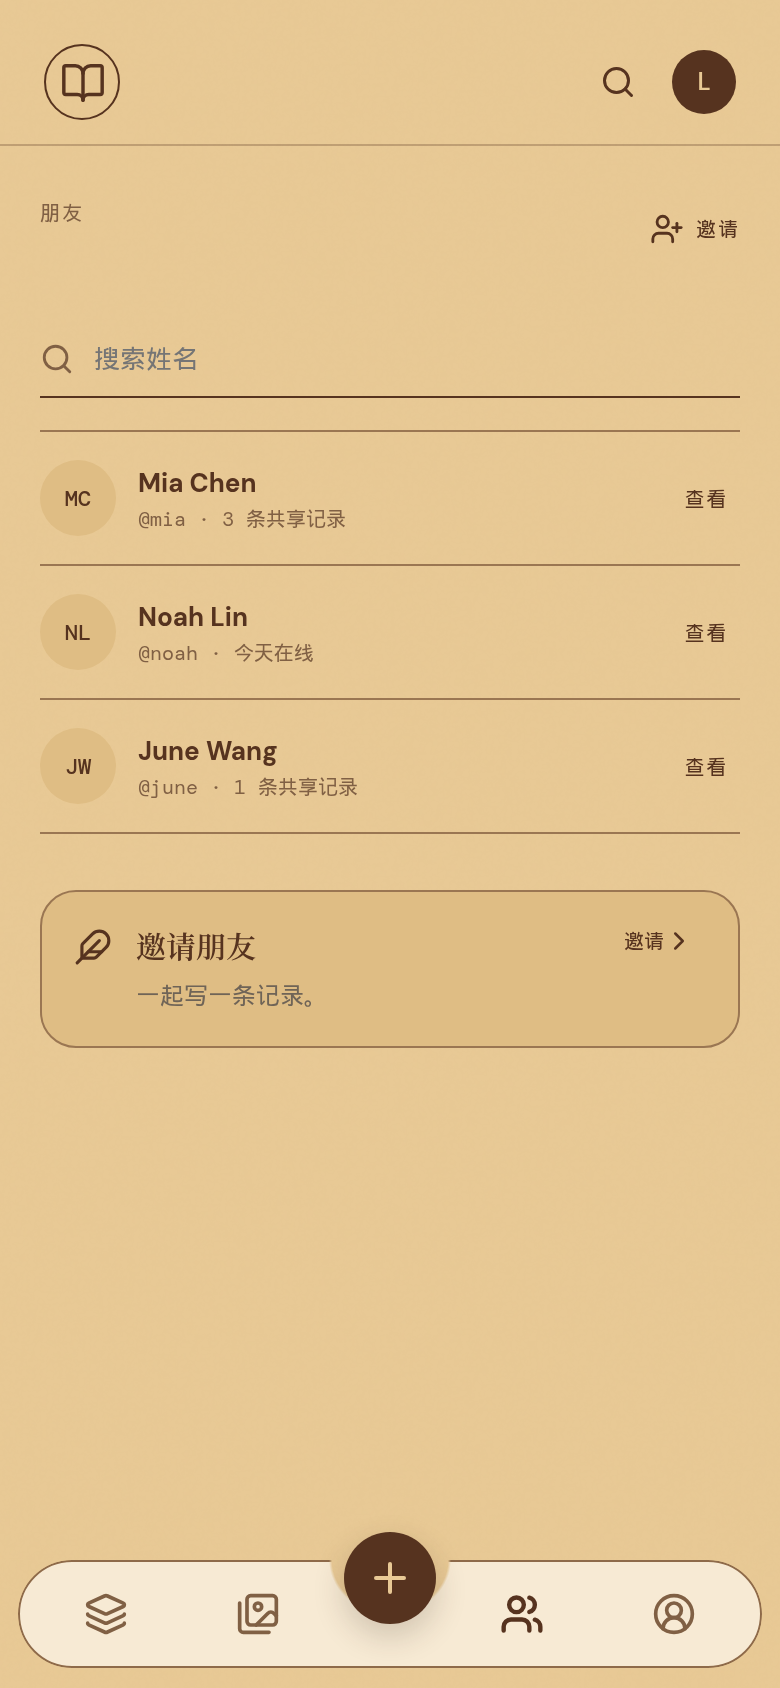
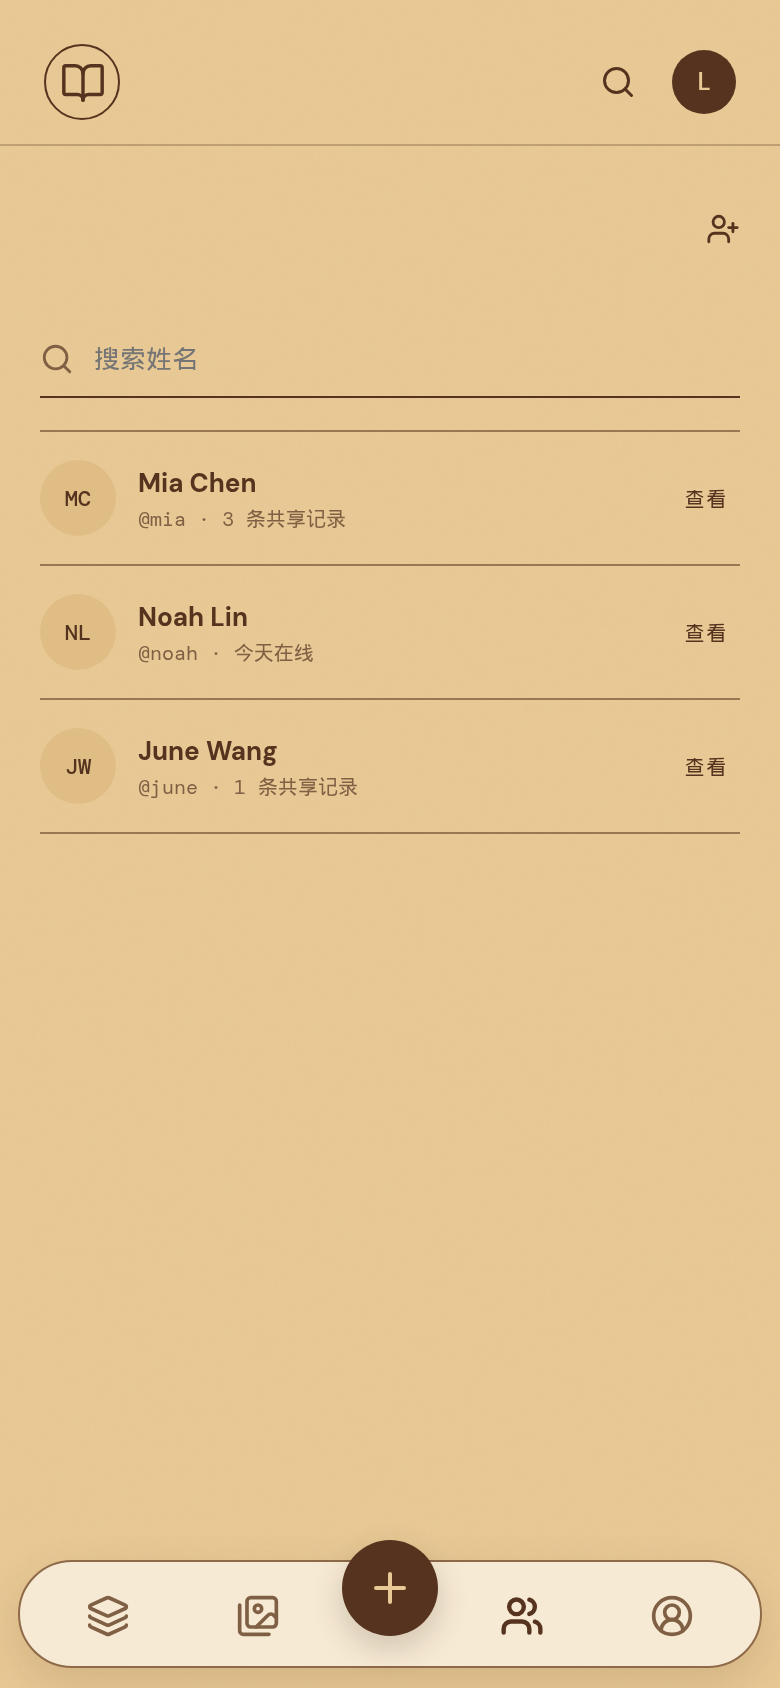
fix: strip decorative chrome titles across the app
Remove sheet and section marketing copy so chrome stays nearly text-free. Keep form placeholders, date, visibility controls, and the 上架 action. Reshoot affected screens with the solid oval bottom nav.

diff --git a/app/page.tsx b/app/page.tsx
@@ -9,7 +9,6 @@ import {
   Check,
   ChevronRight,
   CircleUserRound,
-  Feather,
   Images,
   Layers,
   LogOut,
@@ -130,7 +129,7 @@ function ShelfItem({ item, stories, onOpen }: { item: ShelfObject; stories: Stor
 
 function TimelineView({ stories, onOpen, onBack }: { stories: Story[]; onOpen: (story: Story) => void; onBack: () => void }) {
   const orderedStories = [...stories].sort((a, b) => b.date.localeCompare(a.date));
-  return <section className="view timeline-view"><div className="view-heading"><div><p className="eyebrow">2024</p></div><button className="icon-button" onClick={onBack} aria-label="返回"><ArrowLeft size={18}/></button></div><div className="timeline">{orderedStories.map((story, index) => <div className="timeline-row" key={story.id}><div className="date-rail"><strong>{story.date.split(" / ").slice(1).join("/")}</strong><span>{story.day}</span>{index !== orderedStories.length - 1 && <i/>}</div><button className={`story-card ${story.tone}`} onClick={() => onOpen(story)}><div className="card-copy"><span className="card-kicker">{story.public ? "公开" : "私藏"}</span><h2>{story.title}</h2><p>{story.excerpt}</p><span className="read-link">打开 <ChevronRight size={15}/></span></div>{story.storyImages[0] ? <img src={story.storyImages[0]} alt=""/> : <span aria-hidden="true"/>}</button></div>)}</div></section>;
+  return <section className="view timeline-view"><div className="view-heading"><div><p className="eyebrow">2024</p></div><button className="icon-button" onClick={onBack} aria-label="返回"><ArrowLeft size={18}/></button></div><div className="timeline">{orderedStories.map((story, index) => <div className="timeline-row" key={story.id}><div className="date-rail"><strong>{story.date.split(" / ").slice(1).join("/")}</strong><span>{story.day}</span>{index !== orderedStories.length - 1 && <i/>}</div><button className={`story-card ${story.tone}`} onClick={() => onOpen(story)}><div className="card-copy"><span className="card-kicker">{story.public ? "公开" : "私藏"}</span><h2>{story.title}</h2><p>{story.excerpt}</p></div>{story.storyImages[0] ? <img src={story.storyImages[0]} alt=""/> : <span aria-hidden="true"/>}</button></div>)}</div></section>;
 }
 
 function GalleryView({ stories, onOpen, commentStory, setCommentStory, notify }: { stories: Story[]; onOpen: (story: Story, objectImage?: string) => void; commentStory: number | null; setCommentStory: (id: number | null) => void; notify: (message: string) => void }) {
@@ -139,9 +138,55 @@ function GalleryView({ stories, onOpen, commentStory, setCommentStory, notify }:
   return <section className="view gallery-view" aria-label="相册"><div className="masonry">{columns.map((items, columnIndex) => <div className="masonry-column" key={columnIndex}>{items.map((story) => { const index = gallery.indexOf(story); const image = story.storyImages[0]; return <article className={`gallery-card ${index % 2 ? "offset" : ""}`} key={story.id}><button className="image-button" onClick={() => onOpen(story)}><img src={image} alt={story.title} style={{ aspectRatio: index % 2 ? "3 / 4" : "4 / 5", objectFit: "cover" }}/></button><div className="gallery-meta"><p className="card-kicker">{story.date} · {story.people.join(" + ")}</p><h2>{story.title}</h2><p>{story.excerpt}</p><div className="comment-row"><button onClick={() => notify("已标记")} aria-label="标记"><span aria-hidden="true">♡</span> 12</button><button onClick={() => setCommentStory(commentStory === story.id ? null : story.id)}><MessageCircle size={15}/> {commentStory === story.id ? "收起" : "3"}</button></div>{commentStory === story.id && <div className="comments"><p><b>Mia</b> 我也记得。</p><p><b>Noah</b> 那晚很特别。</p><div className="comment-input"><input placeholder="写回应"/><button aria-label="发送" onClick={() => notify("已发送")}><Send size={14}/></button></div></div>}</div></article>; })}</div>)}</div></section>;
 }
 
-function FriendsView({ notify }: { notify: (message: string) => void }) { const [query, setQuery] = useState(""); const people = [{ name: "Mia Chen", handle: "@mia", status: "3 条共享记录", initials: "MC" }, { name: "Noah Lin", handle: "@noah", status: "今天在线", initials: "NL" }, { name: "June Wang", handle: "@june", status: "1 条共享记录", initials: "JW" }]; return <section className="view friends-view"><div className="view-heading"><div><p className="eyebrow">朋友</p></div><button className="add-friend" onClick={() => notify("邀请链接已复制")}><UserPlus size={17}/> 邀请</button></div><div className="search-field"><Search size={17}/><input value={query} onChange={e => setQuery(e.target.value)} placeholder="搜索姓名"/></div><div className="friend-list">{people.filter(p => `${p.name} ${p.handle}`.toLowerCase().includes(query.toLowerCase())).map(person => <div className="friend-row" key={person.handle}><span className="person-avatar">{person.initials}</span><div><strong>{person.name}</strong><small>{person.handle} · {person.status}</small></div><button className="quiet-button" onClick={() => notify(`已打开 ${person.name} 的记录`)}>查看</button></div>)}</div><div className="invite-card"><Feather size={19}/><div><b>邀请朋友</b><p>一起写一条记录。</p></div><button onClick={() => notify("邀请链接已复制")}>邀请 <ChevronRight size={15}/></button></div></section>; }
+function FriendsView({ notify }: { notify: (message: string) => void }) {
+  const [query, setQuery] = useState("");
+  const people = [
+    { name: "Mia Chen", handle: "@mia", status: "3 条共享记录", initials: "MC" },
+    { name: "Noah Lin", handle: "@noah", status: "今天在线", initials: "NL" },
+    { name: "June Wang", handle: "@june", status: "1 条共享记录", initials: "JW" },
+  ];
+  return (
+    <section className="view friends-view" aria-label="朋友">
+      <div className="view-heading view-heading-end">
+        <button className="add-friend" onClick={() => notify("邀请链接已复制")} aria-label="邀请"><UserPlus size={17} /></button>
+      </div>
+      <div className="search-field"><Search size={17} /><input value={query} onChange={(e) => setQuery(e.target.value)} placeholder="搜索姓名" aria-label="搜索姓名" /></div>
+      <div className="friend-list">
+        {people.filter((p) => `${p.name} ${p.handle}`.toLowerCase().includes(query.toLowerCase())).map((person) => (
+          <div className="friend-row" key={person.handle}>
+            <span className="person-avatar">{person.initials}</span>
+            <div><strong>{person.name}</strong><small>{person.handle} · {person.status}</small></div>
+            <button className="quiet-button" onClick={() => notify(`已打开 ${person.name} 的记录`)}>查看</button>
+          </div>
+        ))}
+      </div>
+    </section>
+  );
+}
 
-function MeView({ notify }: { notify: (message: string) => void }) { return <section className="view me-view"><div className="view-heading"><div><p className="eyebrow">我的</p></div><button className="icon-button" onClick={() => notify("设置功能即将开放")} aria-label="设置"><Settings size={19}/></button></div><div className="profile-card"><span className="profile-avatar">L</span><div><h2>Laura Hanjing</h2><p>@laura · 2024</p></div><button className="quiet-button" onClick={() => notify("资料编辑功能即将开放")}>编辑</button></div><div className="stats"><div><strong>03</strong><span>记录</span></div><div><strong>02</strong><span>公开</span></div><div><strong>04</strong><span>朋友</span></div></div><div className="settings-list"><button onClick={() => notify("邮箱已验证")}><Mail size={18}/><span>邮箱<small>laura@example.com · 已验证</small></span><Check size={17}/></button><button onClick={() => signOut({ callbackUrl: "/login" })}><LogOut size={18}/><span>退出<small>退出账号</small></span><ChevronRight size={17}/></button></div></section>; }
+function MeView({ notify }: { notify: (message: string) => void }) {
+  return (
+    <section className="view me-view" aria-label="个人资料">
+      <div className="view-heading view-heading-end">
+        <button className="icon-button" onClick={() => notify("设置功能即将开放")} aria-label="设置"><Settings size={19} /></button>
+      </div>
+      <div className="profile-card">
+        <span className="profile-avatar">L</span>
+        <div><h2>Laura Hanjing</h2><p>@laura · 2024</p></div>
+        <button className="quiet-button" onClick={() => notify("资料编辑功能即将开放")}>编辑</button>
+      </div>
+      <div className="stats">
+        <div><strong>03</strong><span>记录</span></div>
+        <div><strong>02</strong><span>公开</span></div>
+        <div><strong>04</strong><span>朋友</span></div>
+      </div>
+      <div className="settings-list">
+        <button onClick={() => notify("邮箱已验证")}><Mail size={18} /><span>laura@example.com</span><Check size={17} /></button>
+        <button onClick={() => signOut({ callbackUrl: "/login" })}><LogOut size={18} /><span>退出</span><ChevronRight size={17} /></button>
+      </div>
+    </section>
+  );
+}
 
 async function cropToPng(file: File): Promise<Blob> {
   const image = await createImageBitmap(file);
@@ -250,5 +295,46 @@ function AddStory({ onClose, onAdd, notify }: { onClose: () => void; onAdd: (ite
     notify(cutoutStatus === "ready" ? "透明物品已上架" : "已用居中裁切上架");
   };
 
-  return <div className="modal-backdrop" onClick={onClose}><section className="add-sheet" onClick={e => e.stopPropagation()}><div className="sheet-head"><p className="eyebrow">新增物品</p><button className="icon-button" onClick={onClose} aria-label="关闭"><X size={20}/></button></div><form onSubmit={submit}><label>发现 / 发明日期<input type="date" value={date} onChange={(event) => setDate(event.target.value)} required/></label><label>短标题<input value={title} onChange={(event) => setTitle(event.target.value)} placeholder="给它一个名字" required/></label><label>趣事正文<textarea value={content} onChange={(event) => setContent(event.target.value)} placeholder="写下当时发生了什么…" rows={4} required/></label><label>参与好友<input value={people} onChange={(event) => setPeople(event.target.value)} placeholder="用逗号分开，可不填"/></label><label>物品照片<span className="upload-box"><Camera size={19}/> 拍照或从相册选图 <small>自动扣图</small><input type="file" accept="image/*" capture="environment" onChange={(event) => { const file = event.target.files?.[0]; if (file) void processImage(file); }} required/></span></label>{imageUrl && <div className="cutout-preview"><img src={imageUrl} alt="待上架物品预览"/><span className={`cutout-status ${cutoutStatus}`}>{cutoutStatus === "processing" ? "正在扣图…" : cutoutStatus === "ready" ? "透明 PNG 已生成" : cutoutStatus === "fallback" ? "自动扣图未完成，已用居中裁切" : "等待处理"}</span></div>}<label>趣事现场照片 <span className="upload-box"><Camera size={19}/> 可另选或拍摄，可多张<input type="file" accept="image/*" capture="environment" multiple onChange={(event) => chooseStoryImages(event.target.files)}/></span></label>{storyImages.length > 0 && <div className="story-image-preview" aria-label={`已选 ${storyImages.length} 张现场照片`}>{storyImages.map((image, index) => <img key={`${image}-${index}`} src={image} alt={`现场照片 ${index + 1}`}/>)}</div>}{error && <p className="form-error" role="alert">{error}</p>}<div className="visibility"><span>可见范围</span><div><button type="button" className={visibility === "PRIVATE" ? "selected" : ""} onClick={() => setVisibility("PRIVATE")}>私藏<small>仅自己和参与者</small></button><button type="button" className={visibility === "PUBLIC" ? "selected" : ""} onClick={() => setVisibility("PUBLIC")}>公开<small>显示在相册</small></button></div></div><button className="primary-button" type="submit" disabled={cutoutStatus === "processing"}>上架 <Check size={17}/></button></form></section></div>;
+  return (
+    <div className="modal-backdrop" onClick={onClose}>
+      <section className="add-sheet" onClick={(e) => e.stopPropagation()}>
+        <div className="sheet-head">
+          <button className="icon-button" onClick={onClose} aria-label="关闭"><X size={20} /></button>
+        </div>
+        <form onSubmit={submit}>
+          <input type="date" value={date} onChange={(event) => setDate(event.target.value)} required aria-label="日期" />
+          <input value={title} onChange={(event) => setTitle(event.target.value)} placeholder="给它一个名字" required aria-label="短标题" />
+          <textarea value={content} onChange={(event) => setContent(event.target.value)} placeholder="写下当时发生了什么…" rows={4} required aria-label="趣事正文" />
+          <input value={people} onChange={(event) => setPeople(event.target.value)} placeholder="用逗号分开，可不填" aria-label="参与好友" />
+          <span className="upload-box">
+            <Camera size={19} />
+            <input type="file" accept="image/*" capture="environment" onChange={(event) => { const file = event.target.files?.[0]; if (file) void processImage(file); }} required aria-label="物品照片" />
+          </span>
+          {imageUrl && (
+            <div className="cutout-preview">
+              <img src={imageUrl} alt="" />
+              <span className={`cutout-status ${cutoutStatus}`}>
+                {cutoutStatus === "processing" ? "正在扣图…" : cutoutStatus === "ready" ? "透明 PNG 已生成" : cutoutStatus === "fallback" ? "自动扣图未完成，已用居中裁切" : "等待处理"}
+              </span>
+            </div>
+          )}
+          <span className="upload-box">
+            <Images size={19} />
+            <input type="file" accept="image/*" capture="environment" multiple onChange={(event) => chooseStoryImages(event.target.files)} aria-label="现场照片" />
+          </span>
+          {storyImages.length > 0 && (
+            <div className="story-image-preview" aria-label={`已选 ${storyImages.length} 张现场照片`}>
+              {storyImages.map((image, index) => <img key={`${image}-${index}`} src={image} alt="" />)}
+            </div>
+          )}
+          {error && <p className="form-error" role="alert">{error}</p>}
+          <div className="visibility">
+            <button type="button" className={visibility === "PRIVATE" ? "selected" : ""} onClick={() => setVisibility("PRIVATE")}>私藏</button>
+            <button type="button" className={visibility === "PUBLIC" ? "selected" : ""} onClick={() => setVisibility("PUBLIC")}>公开</button>
+          </div>
+          <button className="primary-button" type="submit" disabled={cutoutStatus === "processing"}>上架 <Check size={17} /></button>
+        </form>
+      </section>
+    </div>
+  );
 }

diff --git a/app/register/page.tsx b/app/register/page.tsx
@@ -8,5 +8,5 @@ export default function RegisterPage() {
   const [form, setForm] = useState({ name: "", email: "", password: "" });
   const [message, setMessage] = useState(""); const [verificationUrl, setVerificationUrl] = useState(""); const [busy, setBusy] = useState(false);
   async function submit(event: FormEvent) { event.preventDefault(); setBusy(true); setMessage(""); setVerificationUrl(""); const response = await fetch("/api/auth/register", { method: "POST", headers: { "content-type": "application/json" }, body: JSON.stringify(form) }); const data = await response.json(); setBusy(false); if (!response.ok) { setMessage(data.error ?? "Unable to create account."); return; } setMessage("Account created. Check your email to verify it before signing in."); setVerificationUrl(data.verificationUrl ?? ""); }
-  return <AuthShell title="CREATE ACCOUNT" subtitle=""><form className="auth-form" onSubmit={submit}><label>Name<input value={form.name} onChange={e => setForm({ ...form, name: e.target.value })} autoComplete="name" /></label><label>Email<input type="email" value={form.email} onChange={e => setForm({ ...form, email: e.target.value })} required autoComplete="email" /></label><label>Password<input type="password" minLength={8} value={form.password} onChange={e => setForm({ ...form, password: e.target.value })} required autoComplete="new-password" /></label>{message && <p className="auth-message">{message}{verificationUrl && <> <a href={verificationUrl}>Verify now</a></>}</p>}<button className="auth-submit" disabled={busy}>{busy ? "CREATING…" : "CREATE ACCOUNT"}</button></form><div className="auth-links"><Link href="/login">已有账号</Link><Link href="/">返回架子</Link></div></AuthShell>;
+  return <AuthShell title="CREATE ACCOUNT" subtitle=""><form className="auth-form" onSubmit={submit}><label>Name<input value={form.name} onChange={e => setForm({ ...form, name: e.target.value })} autoComplete="name" /></label><label>Email<input type="email" value={form.email} onChange={e => setForm({ ...form, email: e.target.value })} required autoComplete="email" /></label><label>Password<input type="password" minLength={8} value={form.password} onChange={e => setForm({ ...form, password: e.target.value })} required autoComplete="new-password" /></label>{message && <p className="auth-message">{message}{verificationUrl && <> <a href={verificationUrl}>Verify now</a></>}</p>}<button className="auth-submit" disabled={busy}>{busy ? "CREATING…" : "CREATE ACCOUNT"}</button></form><div className="auth-links"><Link href="/login">Sign in</Link><Link href="/">Home</Link></div></AuthShell>;
 }

diff --git a/app/login/page.tsx b/app/login/page.tsx
@@ -17,5 +17,5 @@ export default function LoginPage() {
     if (result?.ok) window.location.assign("/");
     else setMessage(result?.error === "EMAIL_NOT_VERIFIED" ? "请先打开验证邮件中的链接。" : "Email or password is incorrect.");
   }
-  return <AuthShell title="SIGN IN" subtitle=""><form className="auth-form" onSubmit={submit}><label>Email<input type="email" value={email} onChange={e => setEmail(e.target.value)} required autoComplete="email" /></label><label>Password<input type="password" value={password} onChange={e => setPassword(e.target.value)} required autoComplete="current-password" /></label>{message && <p className="auth-message auth-error">{message}</p>}<button className="auth-submit" disabled={busy}>{busy ? "SIGNING IN…" : "SIGN IN"}</button></form><div className="auth-links"><Link href="/forgot-password">Forgot password</Link><Link href="/">返回架子</Link></div></AuthShell>;
+  return <AuthShell title="SIGN IN" subtitle=""><form className="auth-form" onSubmit={submit}><label>Email<input type="email" value={email} onChange={e => setEmail(e.target.value)} required autoComplete="email" /></label><label>Password<input type="password" value={password} onChange={e => setPassword(e.target.value)} required autoComplete="current-password" /></label>{message && <p className="auth-message auth-error">{message}</p>}<button className="auth-submit" disabled={busy}>{busy ? "SIGNING IN…" : "SIGN IN"}</button></form><div className="auth-links"><Link href="/forgot-password">Forgot password</Link><Link href="/">Home</Link></div></AuthShell>;
 }

diff --git a/app/globals.css b/app/globals.css
@@ -470,8 +470,13 @@ body{font-family:'DM Sans','Noto Sans SC',sans-serif}
   box-shadow:0 6px 16px #35291e33;
   transform:translateY(-15px);
 }
-.sheet-head{align-items:center;margin-bottom:16px}
-.sheet-head .eyebrow{margin:0}
+.sheet-head{justify-content:flex-end;align-items:center;margin-bottom:8px}
+.view-heading-end{justify-content:flex-end}
+.add-sheet form{gap:14px}
+.add-sheet input,.add-sheet textarea{margin-top:0}
+.add-sheet .visibility{display:grid;grid-template-columns:1fr 1fr;gap:8px}
+.add-sheet .visibility button{padding:12px;text-align:center}
+.upload-box{justify-content:center;min-height:52px}
 .toast{bottom:108px}
 @media(min-width:721px){
   .bottom-nav,.shell .bottom-nav{bottom:22px}

diff --git a/design.md b/design.md
@@ -10,9 +10,9 @@
 2. **书图标 → 年表**：顶栏书图标打开按发现时间回看的年表。年表按日期展示记录，不使用「时间线」等禁词大标题；返回后回到原来的首页位置。
 3. **羊皮纸详情**：详情纵向居中，顶端展示 `objectImage`，中段展示日期、短标题和正文 `content`，下方展示一张或多张现场照片 `storyImages`。文字与配图区域可继续向下滚动；只在顶栏左侧保留返回图标。
 4. **相册**：公开趣事组成两列、自适应高度的 masonry 照片帖，只使用 `storyImages`，不展示扣物 `objectImage`。帖子的图片上方、简短文字下方保持 kraft 卡片样式。
-5. **+ 新增**：新增流程依次完成：选择或拍摄物图并自动扣图得到 `objectImage`；另选或拍摄一张或多张现场照片作为 `storyImages`；填写日期、短标题、正文 `content`、参与好友及公开/私藏；提交后同时上架物品并生成关联 Story，公开 Story 进入相册。新增面板不使用「放上一件」这类大标题；可保留「新增物品」一类小标签，以及表单、上传、可见范围和「上架」按钮。
-6. **朋友**：提供好友列表与邀请。页面以列表和操作为主，弱化或图标化大标题，保持少字风格。
-7. **我的**：提供个人资料与退出操作。页面保持少字，不堆叠大标题。
+5. **+ 新增**：新增流程依次完成：选择或拍摄物图并自动扣图得到 `objectImage`；另选或拍摄一张或多张现场照片作为 `storyImages`；填写日期、短标题、正文 `content`、参与好友及公开/私藏；提交后同时上架物品并生成关联 Story，公开 Story 进入相册。新增面板几乎无字：不放「放上一件」「新增物品」或其他装饰性大标题/分区标题；保留输入占位、日期控件、公开/私藏选项和「上架」主按钮。
+6. **朋友**：提供好友列表与邀请。页面不放「朋友」等分区大标题或邀请营销文案，以列表、搜索和操作图标为主。
+7. **我的**：提供个人资料与退出操作。页面不放「我的」等分区大标题，不堆叠宣传句。
 
 ### 统一数据关系
 
@@ -67,6 +67,7 @@
 ## 文案与视觉
 
 - 文案短、具体、克制，描述真实的物、时间、动作和参与关系；不使用模板化热情口吻、营销腔或空泛口号。
+- 界面 chrome 接近无字：不放装饰性大标题、分区标题或营销句（例如「放上一件」「新增物品」「邀请朋友」连同口号）。可见文字只留给真实内容、表单占位、作为控件本身的选项（如公开/私藏）和必要的主操作（如上架）。鉴权页品牌只保留英文 `WuyuLe`，不出现「语」或「物语了」。
 - 方向是 kraft 简约：纸张、卡纸、木架和手工陈列质感，颜色、边框和阴影保持克制，为图片和正文留出呼吸空间。
 - 视觉应轻、暖、安静；不要使用产品黑底、霓虹渐变、强玻璃拟态或装饰性噪点制造“科技感”。
 - 保持手机优先。图标、物格、返回控件在窄屏上都要有明确的点击区域、焦点样式和可读的无障碍名称；无障碍名称也必须遵守内部概念禁词规则。
@@ -89,3 +90,4 @@
 6. 底部导航只显示五个图标（中间为 `+`），不显示任何文字标签；每个图标有合适的 `aria-label`，且名称不含禁词。视觉为完整连续的奶油色椭圆底栏，中间 `+` 作为独立圆按钮叠在条上，条内无大块顶部留白，也没有凹槽。
 7. 全部用户可见文案、`aria-label`、`title` 属性和空状态文案都不包含 `收藏`、`展架`、`史书`、`物语了`、`时间线`。
 8. 通过 `+` 拍照或选图后，默认进入自动扣图；透明 PNG 预览完成后可以作为 `objectImage` 加入四列网格，关联的现场照片作为 `storyImages` 出现在详情文字下方和相册中。
+9. 新增面板、朋友、我的等 chrome 不出现装饰性大标题或营销句；表单仍可用占位文字、日期、公开/私藏和「上架」完成提交。
